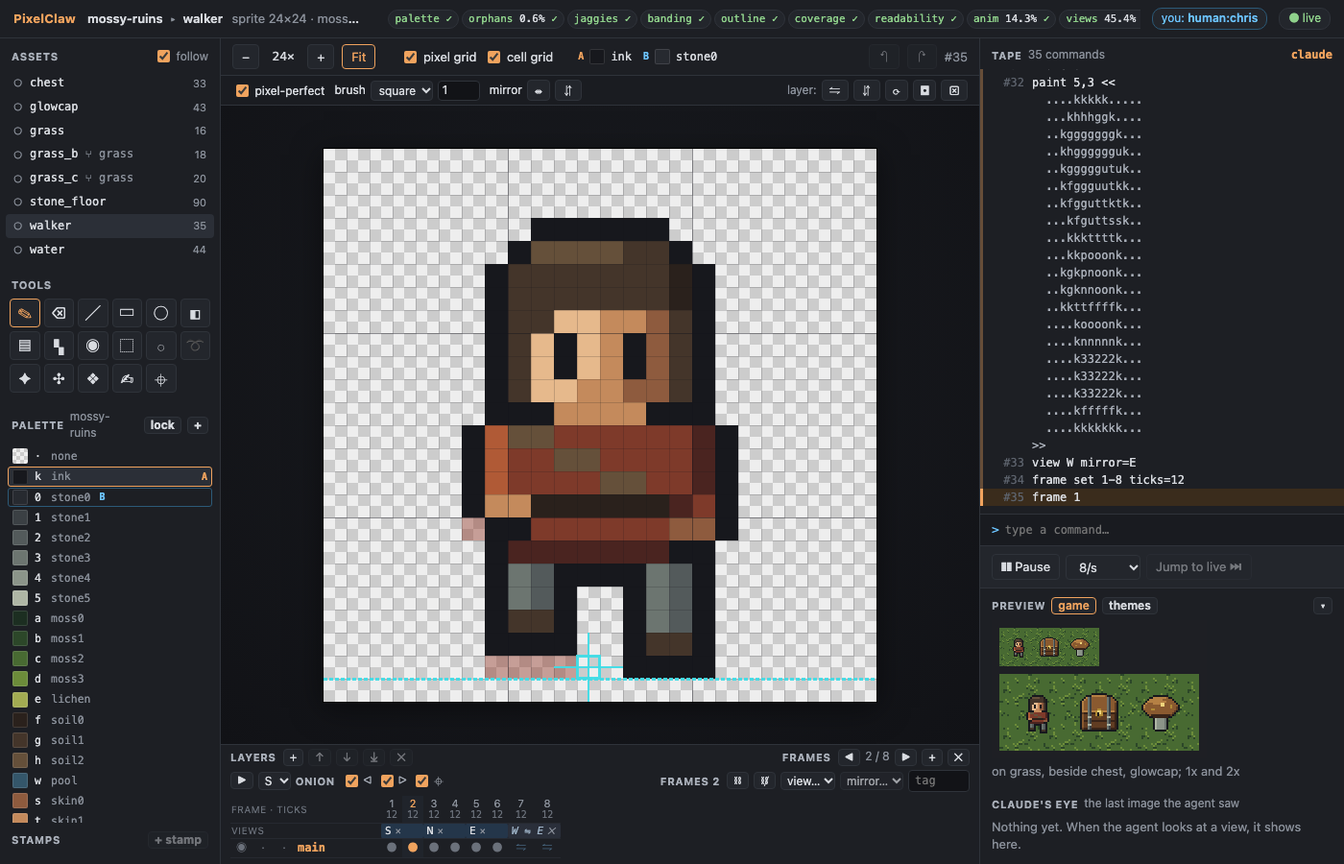
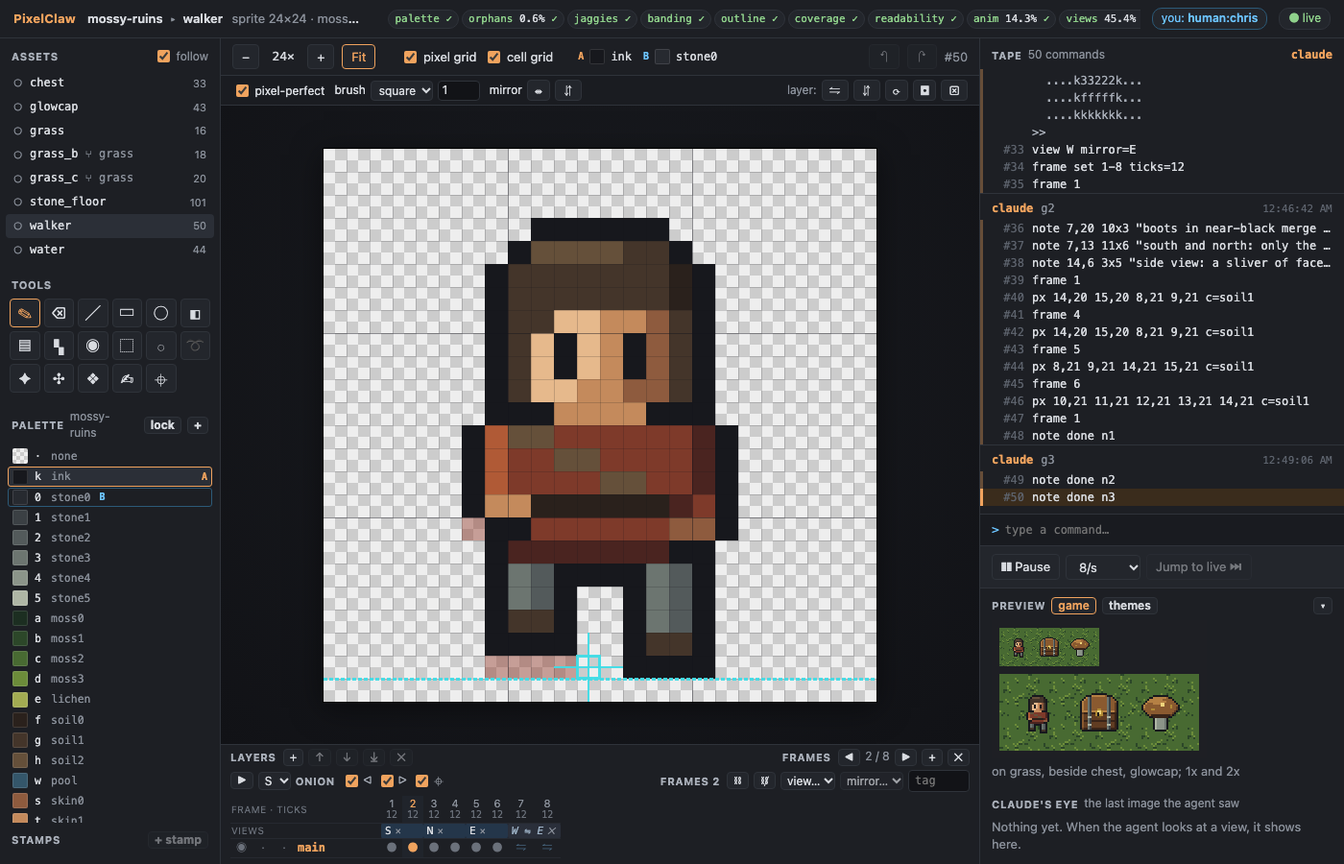
G6 docs: the demo (examples/demo-g6.md), progress, plan questions 66-80, command, check and MCP references, README, screenshots and GIFs; the CLI's view all is render, grid and tile3x3 as documented

Changed region(s): [[0.7371, 0.0933, 0.9829, 0.5911]]

diff --git a/server/src/mcp.ts b/server/src/mcp.ts
@@ -35,7 +35,8 @@ Commands (one per line, or ';' between them; '#' comments). Full reference: docs
   >>
   stroke pencil c=<colour> [pp=on|off] <x,y> <x,y>...    a freehand drag; stroke eraser <x,y>...
   layer add <name> [above=|below=<layer>] [reference] | layer <name> (draw on it) | layer set <name> hidden=|locked=|reference=on|off | layer move|merge|rename|remove
-  frame add [<n>] [copy=<m>|empty] | frame <n> (draw on it, from 1) | frame remove|move
+  frame add [<n>] [copy=<m>|link=<m>|empty] | frame <n> (draw on it, from 1) | frame remove|move | frame set <n>|<a>-<b>|all ticks=<t>
+  tag add <name> <a>-<b> [loop=cycle|pingpong] | view S|N|E|W frames=<a>-<b> | view W mirror=E (live mirror) | cel link|unlink <a>-<b> | pivot <x,y> | ground <y>
   select rect|ellipse|lasso|wand|colour|layer|all|none|invert ... [add|sub|and]; deselect   your selection clips your drawing
   clear | shift <dx,dy> [wrap] | flip h|v | rotate 90|180|270       the selection, or your whole layer
   mirror x=11.5 [y=..] live (later strokes mirrored) | mirror off | mirror x=11.5 from=left (copy once)

diff --git a/scripts/screenshots-g6.ts b/scripts/screenshots-g6.ts
@@ -12,6 +12,8 @@ const out = (n: string, ext = 'png') => join(REPO, 'docs', 'screenshots', `${n}.
 const settled = (page: Page) => page.waitForFunction(() => document.querySelector('[data-testid=waiting]')?.textContent === '');
 
 const agent = await startAgent({ copy: join(REPO, 'examples', 'mossy-ruins.pclaw') });
+// The walker's two open review notes would cover it in every picture: closed on this copy only.
+await agent.call('run', { asset: 'walker', commands: 'note done n2\nnote done n3' });
 const browser = await chromium.launch();
 try {
   const page = await browser.newPage({ viewport: { width: 1400, height: 900 }, deviceScaleFactor: 1 });

diff --git a/PROGRESS.md b/PROGRESS.md
@@ -37,7 +37,7 @@ Status of plan features touched so far. Steps refer to the build plan (§10).
 | MCP over stdio (official TS SDK v2), server instructions | §8.2 | done | `mcp.test.ts` | Serves both protocol eras (2025 `initialize` checked by hand). Instructions carry a command cheat sheet and ask the agent to share the watch link. |
 | MCP `project` | §8.2 | partial | `mcp.test.ts` | Palettes, assets, watch link; open/create another folder; add palette files. Profiles come with G9. |
 | MCP `run` | §8.2 | done | `mcp.test.ts`, `g5.test.ts` (server) | One undo group; applied lines, pixels changed, warnings, a check summary, an optional view; errors with line:col apply nothing. |
-| MCP `view` | §8.2, §2 | partial | `mcp.test.ts`, `edits.test.ts`, `g5.test.ts` (server) | `render`, `grid`, `tile3x3`, `diff`, `game`, `recolour`; `marks`, `theme`, `ground`, `with`. `anim` G6, `map` G7, `density` G9. |
+| MCP `view` | §8.2, §2 | partial | `mcp.test.ts`, `edits.test.ts`, `g5.test.ts`, `g6.test.ts` (server) | `render`, `grid`, `tile3x3`, `diff`, `game`, `recolour`, `anim`; `marks`, `theme`, `ground`, `with`. `map` G7, `density` G9. |
 | MCP `history` | §8.2 | done | `mcp.test.ts` | Range by number or last N; undone groups marked. |
 | HTTP + WebSocket on localhost, token | §1.2, §8.1 | done | `mcp.test.ts`, `watch.spec.ts` | 127.0.0.1 only, host-name check, random token for the page, `/api/state` and `/ws`. Port 7417 or the next free one. Small RFC 6455 server side, no dependency. |
 | UI shell: canvas, zoom 1–64x, pixel and cell grids | §8.3, G2 | done | `watch.spec.ts` (canvas equals the core render at two zooms, with and without the grid) | Draws core's `renderFlat`; checkerboard under transparent pixels. Wrap ghosts and onion skin come later. |
@@ -54,7 +54,7 @@ Status of plan features touched so far. Steps refer to the build plan (§10).
 | Edits from pages: WebSocket `run` as `human:<name>`, through the single writer | §1.2, §1.3, G3 | done | `edits.test.ts`, `edit.spec.ts` | The sender gets a `result`; every page gets the batch. Pages can't restart an asset; names must be `human:<name>`. |
 | Human groups `h<N>` with their own counter | §1.3, G3 | done | `authors.test.ts`, `edits.test.ts`, `edit.spec.ts` | Per tape, like `g<N>`. |
 | UI tools: pencil (pixel-perfect), eraser, line, rect, ellipse, fill, picker, rectangle select and move | §8.3, G3 | done | `edit.spec.ts` (each tool driven with the mouse; the logged lines checked; core's replay of the server's tape equals the canvas after every action) | New commands `stroke pencil\|eraser`, `select rect\|all\|none`, `deselect`, `shift`. A stroke is one line, one group. Previews are the batch applied by core. Picker and an unused selection log nothing (they don't change the document). |
-| Keyboard shortcuts in tooltips | §8.3, G3 | done | `edit.spec.ts` (B, E, L, U, Shift+U, F, G, I, Alt+click, M, V, arrows, Delete, Esc, N, Ctrl+Z, Ctrl+Shift+Z) | Aseprite-style. `[ ]` frames come with G6. |
+| Keyboard shortcuts in tooltips | §8.3, G3 | done | `edit.spec.ts` (B, E, L, U, Shift+U, F, G, I, Alt+click, M, V, arrows, Delete, Esc, N, Ctrl+Z, Ctrl+Shift+Z) | Aseprite-style. `[ ]` frames (G4), Enter plays and P is the pivot tool (G6). |
 | Selections clip drawing | §3.2 | done | `edit.test.ts`, `edit.spec.ts`, `g4.test.ts` | Every kind from G4; per author. |
 | Palette editing as tape commands | §3.1, G1 q3, G3 | done | `edit.test.ts`, `edit.spec.ts` | `palette set <entry> hex=`, `palette add [<name>] hex= [key=]` edit the document's own copy; the project palette file is untouched. |
 | Notes pinned to pixels or regions | §1.3, §8.3, G3 | done | `edit.test.ts`, `edits.test.ts`, `edit.spec.ts` | `note x,y [WxH] "text" id=nK`, `note done nK`. In the state, `asset.json`, on the canvas (labels and outlines), in a Notes panel and in `changes`. |
@@ -69,7 +69,7 @@ Status of plan features touched so far. Steps refer to the build plan (§10).
 | Demo: the person fixes three pixels and leaves a note; `changes` returns them; the agent carries on | G3 | done | `edit.spec.ts` (same scenario), `examples/demo-g3-agent.ts --simulate` (run by hand) | `examples/demo-g3.md`; screenshots in `docs/screenshots/g3-*.png`. |
 | Each author's editing context: layer, frame, selection, live symmetry, brush | §3.2, G3 notes | done | `g4.test.ts` (an agent's selection does not clip a person; layer, frame, mirror, brush per author; home layer and frame), `toolkit.spec.ts` | Authors without one draw on a home layer and frame that move with their layer and frame. The page sends `layer`/`frame`/`mirror`/`brush` lines with your next edit only when they change. |
 | Layers: add, choose, hidden, locked, reference, rename, move, merge, remove | §3.2, G4 | done | goldens `g4/layers*`, `g4.test.ts`, `toolkit.spec.ts` | Bottom to top. Reference layers are not art: views show them faded under it. A locked layer refuses drawing. |
-| Frames scaffolding: add (copy or empty), choose, remove, move | §3.2, §4.4, G4 | done | goldens `g4/frames.f1..f3`, `g4.test.ts`, `toolkit.spec.ts` | Numbered from 1. Views take `frame` (default: the agent's). Durations, tags, linked cels, onion skin: G6. |
+| Frames scaffolding: add (copy or empty), choose, remove, move | §3.2, §4.4, G4 | done | goldens `g4/frames.f1..f3`, `g4.test.ts`, `toolkit.spec.ts` | Numbered from 1. Views take `frame` (default: the agent's). Durations, tags, linked cels, onion skin: G6 (below). |
 | Selections: rect, ellipse, lasso, wand (contiguous or global), colour, layer, all, none, invert; add, sub, and; `clear` | §3.2, G4 | done | goldens `g4/select-*`, `toolkit.spec.ts` | In the page, selections are commands at once (undoable), not local as in G3. |
 | Transforms: `shift` (`wrap` within the box or canvas), `flip`, `rotate` | §3.3, G4 | done | goldens `g4/transforms`, `g4/shift-wrap`, `toolkit.spec.ts` | On the selection or the author's layer. |
 | Symmetry: `mirror … live`, `mirror … from=` | §3.3, G4 | done | goldens `g4/mirror-*`, `toolkit.spec.ts`; guides in `g4-symmetry.png` | Axes at whole or half pixels; one or two axes. |
@@ -85,7 +85,7 @@ Status of plan features touched so far. Steps refer to the build plan (§10).
 | UI: selection tools, transforms, symmetry and guides, brush, gradient and dither tools, outline and clean, stamps, timeline (layers by frames), wrap ghosts, palette lock | §8.3, G4 | done | `toolkit.spec.ts` (each control's logged lines, then core's replay equals the canvas), `edit.spec.ts` | Shortcuts: Shift+M, Q, W, Shift+G, D, S, Shift+H/V/R, X, [ ]. Screenshots `docs/screenshots/g4-*.png`. |
 | Demo: a seamless grass tile with two variants and a 24x24 chest | G4 | done | `example.test.ts` (verify, and a rebuild from the scripts) | `examples/demo-g4.md`, `examples/demo-g4-agent.ts` (run by hand), scripts in `examples/scripts/`; assets in `examples/mossy-ruins.pclaw`. |
 | Tape language 2: the palette in the `new` line | §13, G5 | done | `lang.test.ts` (language 1 tapes verify and can be drawn on; a palette file change breaks only them; a branch keeps its language; a wrong header is refused), `g5.test.ts` (core) | Language 1 tapes replay by reading the project palette. The example project was rebuilt in language 2; a language 1 copy is a test fixture (`cli/test/fixtures/lang1.pclaw`). |
-| Checks: `palette`, `orphans`, `jaggies`, `banding`, `outline`, `seam`, `coverage`, `readability`, `revert`, `repetition` | §5, G5 | done | `checks.test.ts` (a fixture per check with known answers) | Score, pass or fail against the style guide, flagged pixels by kind. `anim`, `density`, `consistency` are G6, G9, G10. See docs/checks.md. |
+| Checks: `palette`, `orphans`, `jaggies`, `banding`, `outline`, `seam`, `coverage`, `readability`, `revert`, `repetition` | §5, G5 | done | `checks.test.ts` (a fixture per check with known answers) | Score, pass or fail against the style guide, flagged pixels by kind. `anim` and `views` in G6 (below); `density`, `consistency` are G9, G10. See docs/checks.md. |
 | The seam metric, exactly | §13, G5 | done | `checks.test.ts` (solid 0; ink frame `0.9d/(0.3d+2)` = 2.6447; half-and-half `jump` = 2.3171; noise < 1) | Tiles (wrap documents). Over composed maps with G7/G8. |
 | Style-guide thresholds | §5, §7.1, G5 | done | `checks.test.ts`, `g5.test.ts` (server), `checks.spec.ts` | project.json `style` (palettes, outline, ground, drawScale, sizes, checks per kind and per asset) and `style.md`. Read again when the file changes; pages are told. |
 | MCP `check` | §8.2, G5 | done | `g5.test.ts` (server) | The table with coordinates and a marked image; without an asset, a line per asset. |
@@ -96,3 +96,18 @@ Status of plan features touched so far. Steps refer to the build plan (§10).
 | A tidier toolbar and options bar on narrow windows | G4 notes, G5 | done | screenshot `g5-narrow.png` | Narrower side panels below 1350 px, shorter labels, groups kept together. |
 | Playback never skips a command on a slow frame | G2, G5 | done | `watch.spec.ts` (every command shown in turn) | At most one command a frame up to 60/s. |
 | Demo: checks flag a test sprite's defects and the G4 art's weak spots; fixed by coordinates; a blind review round | G5 | done | `example.test.ts` (rebuild from scripts; every check passes) | `examples/demo-g5.md`, `examples/demo-g5-agent.ts`; screenshots `docs/screenshots/g5-*.png`. |
+| Frame durations in ticks; the project's tick rate | §4.4, §7.1, G6 | done | `anim.test.ts` (defaults, ranges, new frames take their source's; old documents keep their state bytes) | `frame set <n>\|<a>-<b>\|all ticks=`; `tickRate` in project.json (60). Default 10 ticks (the engine profile's `frameTicks`). |
+| Tags with `cycle` and `pingpong` loops | §3.2, §4.4, G6 | done | `anim.test.ts` (follow frames added, removed, moved) | `tag add\|set\|remove`. |
+| Linked cels | §3.2, §4.4, G6 | done | `anim.test.ts` (drawing on one draws on all; survive clone, replay, state bytes; unlink; undo) | One shared pixel array; `cel link\|unlink`, `frame add link=`. Written in the state as links, only when there are any. |
+| Directional views and live mirror links | §4.4, G6 | done | `anim.test.ts` (mirror frames added at the end, flipped; follow drawing, new source frames, ticks; drawing on a mirror refused; `mirror=off`), `g6.test.ts` (server), `anim.spec.ts` (canvas) | `view <dir> frames=`, `view W mirror=E`. The mirror is kept after every command. Export (draw-time or baked) is G9. |
+| Pivot and ground line | §4.4, §4.9, G6 | done | `anim.test.ts`, `anim.spec.ts` | `pivot x,y`, `ground y`; in the anim sheet and the watch view in cyan. |
+| `anim` view: contact sheet with onion skin, and a GIF | §2 (4), G6 | done | goldens `g6/anim-walker.png`, `g6/anim-water.png`, `g6/anim-walker.gif`, `g6/anim-water.gif`; `anim-render.test.ts` (GIF decoded back; delays at 60 ticks/s; sequences of different lengths share a loop); `g6.test.ts` (server) | GIF encoder in core (LZW, one table). The sheet: a row per sequence, ticks, the frame before tinted, pivot and ground, the change from the frame before. |
+| `anim` checks: frame diff share, loop seam, pivot and ground drift, area jumps | §4.4, §5, G6 | done | `anim-checks.test.ts` (fixtures with exact answers) | Band 8-35 % (tiles 3-35 %); drift ≤ 1 px; ground 0 px; area ≤ 15 %. Per sequence; mirrors skipped. |
+| View distinctness check (`views`) | §4.4, §5, G6 | done | `anim-checks.test.ts` | Colour difference over both silhouettes ≥ 20 % between views (first frames); E/W not compared. |
+| Checks and the run summary over every frame | §14, G6 | done | `anim-checks.test.ts` (a stray on frame 2 found and named), `g6.test.ts` (server) | Worst frame's score; flagged pixels carry their frame; marks drawn on the frame shown. |
+| Throttled checks on large canvases | §14, G6 | done | `anim-checks.test.ts` (over the budget only the focus frame) | Run summaries and the page check every frame up to 262,144 px (w × h × frames), else the frame being drawn on; the page also recomputes at most twice a second while commands play on large canvases. |
+| `pixelclaw upgrade` (language 1 tapes to language 2) | §14, G6 | done | `lang.test.ts` (same state, verified, no longer reads the palette file; a second run does nothing) | Replayed before and after; written only if the state bytes are the same; checkpoints rewritten. |
+| UI: timeline with ticks, views, tags, linked cels; playback at game speed; onion skin; pivot and ground tool | §8.3, G6 | done | `anim.spec.ts` (each control's logged line, then core's replay equals the canvas; a mirror follows the agent; playback frame times at 60 ticks/s within 120 ms; playing and onion log nothing) | Enter plays; Shift+click frame numbers chooses frames; P is the ⌖ tool. Screenshots `docs/screenshots/g6-*.png`. |
+| Review bundle with animations | §5, G6 | done | `g5.test.ts` (no author or method names) | `anim/<asset>.png` and `.gif`, every direction in the scenes, a sixth rubric question. |
+| Stone floor redrawn as a floor | §14, G6 | done | `example.test.ts`; a blind review round (`reviews/2026-10-28-g6/findings.md`) | Flagstones with `voronoi`; the repetition exception stays (its joints are its pattern). |
+| Demo: a 4-direction, 2-frame walking figure and a 4-frame water shimmer, played at game speed; the anim checks green | G6 | done | `example.test.ts` (rebuild from scripts; every check passes), `anim.spec.ts` | `examples/demo-g6.md`, `examples/demo-g6-agent.ts`; GIFs `docs/screenshots/g6-walker.gif`, `g6-water.gif`. |

diff --git a/examples/demo-g6.md b/examples/demo-g6.md
@@ -1,0 +1,163 @@
+# Demo G6: animation and sprites
+
+The agent animates: a walking figure in four directions with two frames each (south, north and
+east drawn; west a live mirror of east), and a water tile that shimmers in four frames. Each frame
+has its duration in game ticks; the anim checks (frame diff share, pivot and ground drift, loop
+seam) and the view distinctness check run over every frame, with every other check, after every
+batch. The agent looks at the `anim` contact sheet (onion skin, ticks, pivot and ground line,
+the change from frame to frame) and saves a GIF for you; you play both in the watch view at the
+game's speed. The G1 stone floor is redrawn as flagstones (G5's reviewer found it read as a wall),
+and a blind reviewer judges the new art.
+
+You need Node 22.18 or later and pnpm. Build once, from the repo:
+
+```sh
+pnpm install
+pnpm build
+```
+
+## With Claude Code
+
+Register the server and open the watch link as in [demo-g2.md](demo-g2.md) (steps 1 and 2), then
+ask, for example: *Draw a 24x24 walking figure for the mossy ruins: four directions, two walk
+frames each, west mirroring east, feet on row 22, 12 ticks a frame. Then a 24x24 water tile that
+shimmers in four frames and loops without a seam. Keep every check green, look at the anim views,
+and tell me when I can play them.*
+
+## With the stand-in agent
+
+```sh
+node examples/demo-g6-agent.ts            # --pause <ms> between batches (default 1500), --linger <s> (default 600)
+```
+
+It starts `pixelclaw serve` on `out/demo-g6.pclaw` exactly as Claude Code would, prints the watch
+link, rebuilds the G1-G5 art from its scripts, and then draws from
+[walker.pclaw](scripts/walker.pclaw), [water.pclaw](scripts/water.pclaw) and
+[stone_floor_redraw.pclaw](scripts/stone_floor_redraw.pclaw), batch by batch, printing the check
+summary after each. Then it writes a review bundle, applies the review round
+([walker_review.pclaw](scripts/walker_review.pclaw),
+[stone_floor_g6review.pclaw](scripts/stone_floor_g6review.pclaw)), and lingers so you can play
+the animations. Stop it with Ctrl-C.
+
+## 1. The walking figure
+
+The script adds the figure's colours to the document's palette (skin and cloth ramps) and saves
+them as the project palette `ruins-folk`, makes eight frames, and names the directions:
+
+```
+view S frames=1-2
+view N frames=3-4
+view E frames=5-6
+pivot 11,22
+ground 22
+```
+
+Then each frame is a paint block, and at the end:
+
+```
+view W mirror=E          # frames 7-8: east flipped, kept up to date
+frame set all ticks=12   # 5 frames a second at 60 ticks a second
+```
+
+Drawing on frame 7 is refused (`frame 7 is in view W, a live mirror of E: draw on E (frame 5), or
+view W mirror=off`); drawing on frame 5 changes frame 7 too. The run summary checks every frame:
+
+```
+checks: palette 0 ✓ · orphans 0.6% ✓ · jaggies 0 ✓ · banding 0 ✓ · outline 1 ✓ · coverage 0 ✓ · readability 1 ✓ · anim 14.3% ✓ · views 45.4% ✓
+```
+
+On the way there the checks found what was wrong by frame and pixel: a lone skin pixel for a
+hand, a hair highlight that made doubled L-corners, a 1-px notch between the legs in the side
+view, the boots' two tones as lone pixels; each was fixed in the script. The anim check holds the
+walk to 8-35 % of the figure changing per frame (it changes 14 % facing south and north, 25 %
+facing east), no sliding (pivot drift 0.2 px) and both feet's lowest row on the ground line in
+every frame; the views check finds the four directions distinct (south and north differ by 45 %).
+
+`view(mode="anim")` returns the contact sheet ([walker.anim.png](mossy-ruins.pclaw/views/walker.anim.png)),
+the numbers, and a GIF ([walker.anim.gif](mossy-ruins.pclaw/views/walker.anim.gif)):
+
+```
+walker: 8 frames at 60 ticks/s; pivot 11,22; ground 22
+  S: cycle, frames 1,2, ticks 12,12 (a loop is 24 ticks, 400 ms); changed 1→2 14%, 2→1 14%
+  N: cycle, frames 3,4, ticks 12,12 (a loop is 24 ticks, 400 ms); changed 3→4 14%, 4→3 14%
+  E: cycle, frames 5,6, ticks 12,12 (a loop is 24 ticks, 400 ms); changed 5→6 25%, 6→5 25%
+  W: mirror of E, cycle, frames 7,8, ticks 12,12 (a loop is 24 ticks, 400 ms); changed 7→8 25%, 8→7 25%
+```
+
+![The walker's contact sheet: a row per direction, the frame before tinted red under each frame, the pivot and ground line in cyan](../docs/screenshots/g6-walker-anim.png)
+
+The game view shows every direction on the grass at 1x and 2x:
+
+![The walker in four directions beside the chest and the glowcap](../docs/screenshots/g6-walker-game.png)
+
+## 2. The water
+
+[water.pclaw](scripts/water.pclaw) adds a water ramp (saved as `ruins-water`) and draws three
+layers: the body (dark troughs, one in every row, starting in a shuffled order of columns so no
+row or column is darker than the rest), crests (an arc every other row), and glints. Four frames:
+the body's cels are **linked** (`cel link 1-4 layer=main`, one shared cel), the crests move a
+quarter of the tile each frame (`shift 6,0 wrap`, so after four frames they are back where they
+started and the loop has no seam), and the glints move to other crests. 15 ticks a frame.
+
+```
+checks: palette 0 ✓ · orphans 1% ✓ · jaggies 1 ✓ · seam 0.31 ✓ · coverage 0 ✓ · repetition 2.3 ✓ · anim 16.7% ✓
+```
+
+Every pair changes 17 %, the loop seam (4→1) included. The first try used `noise` for the body:
+it looked like a maze, not water, and the repetition check found its rows; the generator above is
+what came out of that, with the seed picked from a few by the checks.
+
+![The water's contact sheet](../docs/screenshots/g6-water-anim.png)
+
+## 3. Watch it play
+
+In the watch view, choose `walker`: the timeline shows each frame's number and ticks, the views
+(`S`, `N`, `E`, and `W ⇋ E` for the mirror) and, for the water, linked cels as ◆. ▶ (or Enter)
+plays the chosen sequence at the game's speed (60 ticks a second); the onion skin shows the frame
+before (red) and after (blue) yours in its view; ⌖ shows the pivot and ground line.
+
+![The walker in the watch view](../docs/screenshots/g6-walker.png)
+![The onion skin on frame 2](../docs/screenshots/g6-onion.png)
+![Playing east at the game's speed](../docs/screenshots/g6-playing.png)
+![The water playing, its body's cels linked](../docs/screenshots/g6-water.png)
+
+Everything you change in the timeline is a command on the tape with your name: double-click a
+frame number to set its ticks (`frame set 1-2 ticks=9`), Shift+click frame numbers to choose a
+run of them and tag it (`tag add walk 1-2 loop=cycle`), make it a direction (`view E
+frames=1-2`) or add a mirror (`view W mirror=E`), link or unlink its cels (`cel link 3-4
+layer=main`); the ⌖ tool (P) sets the pivot (`pivot 11,22`) and, with Shift, the ground line.
+Playing and the onion skin only change what you see.
+
+## 4. The stone floor, as a floor
+
+G5's blind reviewer said the floor (three courses of bevelled stones) read as a wall more than a
+floor. [stone_floor_redraw.pclaw](scripts/stone_floor_redraw.pclaw) lays it again as flagstones
+seen from above with `voronoi` (seven slabs of three tones, wrapping, dark joints, no bevel), and
+a little moss in the joints:
+
+![The flagstone floor, 3x3](../docs/screenshots/g6-stone_floor-tile3x3.png)
+
+Its checks pass except `repetition`, which no jointed floor tried passed (about thirty layouts of
+slabs: the joints themselves make rows and columns darker than the rest), so the style guide's
+exception for this tile stays, with its reason changed (`style.md`: "its joints are its pattern").
+
+## 5. The blind review
+
+`review` writes a bundle with the new anim contact sheets and GIFs and every direction in the
+scenes, and a sixth question in the rubric (does the motion read, slide, float or hitch at the
+loop?). A fresh agent judged it blind
+([findings.md](mossy-ruins.pclaw/reviews/2026-10-28-g6/findings.md)): the floor now reads as
+flagstones; the walker reads at 1x in all four directions; the water loops with no hitch. Its
+defects on the new art came back as notes on the pixels; the floor's soil dash and thin moss and
+the walker's near-black boots were fixed by coordinates and their notes closed. The rest (the
+south and north walk could swing the arms, the side view's face is a sliver, the water's marks
+are all one size, the chest is as tall as the figure) are polish beyond this step's demo, left as
+open notes and listed in the findings.
+
+## In the CLI
+
+```sh
+node cli/bin/pixelclaw.js view examples/mossy-ruins.pclaw walker anim    # the sheet, the numbers, the GIF
+node cli/bin/pixelclaw.js check examples/mossy-ruins.pclaw walker water   # every frame
+node cli/bin/pixelclaw.js upgrade my-old.pclaw                            # language 1 tapes to language 2
+```

diff --git a/PLAN_QUESTIONS.md b/PLAN_QUESTIONS.md
@@ -438,3 +438,81 @@ Points where the plan was unclear or silent. Each has the reading that was follo
 
 65. **Variants' acceptance rule** (§4.1, item 53). Still not built: it compares a variant's colour
     mix with its base, which belongs with `consistency` (G10) or the family tools (G7).
+
+## G6
+
+66. **G5's "Notes for G6".** They were in G5's final report, not in the repo; §14 carries the
+    items the reader kept (upgrade, checks over every frame, throttling, the floor). *Reading:* §14
+    is the list.
+
+67. **Views and frames.** §4.4: "views S, N, E, W, each holding its own frames".
+    *Reading:* a view is a named run of the document's frames (`view S frames=1-2`), so the
+    timeline, the cels and every frame command stay one list; views never overlap and a frame
+    cannot move out of its view. Directions are S N E W and the four diagonals.
+
+68. **Live mirror links.** `view W mirror=E` "updates live". *Reading:* after every command the
+    mirror view has as many frames as its source (added or removed at its own end), each layer's
+    cel is the source's flipped left to right about the canvas (x → W−1−x), and its durations are
+    the source's. Drawing on a mirror frame is refused with the frame to draw on; `mirror=off`
+    keeps the pixels. Only views facing the other way left to right may mirror (E/W, SE/SW,
+    NE/NW). How a mirror exports (draw-time or baked) is G9's profile.
+
+69. **Linked cels.** *Reading:* as in Aseprite, one cel shown in several frames: a shared pixel
+    array, so any author drawing on any of the frames changes all. `cel link a-b` takes frame a's
+    pixels; `cel unlink` copies. `layer merge` unlinks the layer below first.
+
+70. **Durations and the tick rate.** *Reading:* every frame has ticks (default 10, the engine
+    profile's `frameTicks`); `tickRate` in project.json (already 60 since G1) sets the speed of
+    playback, the anim view's text and the GIF. A new frame takes its source's ticks; `frame set`
+    over a range sets every frame that is not a mirror's.
+
+71. **Sequences.** Playback, the anim view and the anim checks need "what loops". *Reading:*
+    every tag; every view with no tag inside it; or, with neither, all frames as one cycle. A
+    ping-pong plays there and back without repeating its ends (1 2 3 2).
+
+72. **The anim checks' numbers.** §4.4 gives the pilot's good pairs (16-19 % changed) but no
+    limits. *Reading:* frame diff share = pixels whose colour differs (opacity included) over the
+    union of both frames' silhouettes, 8-35 % for sprites (3-35 % for tiles, whose shimmer is
+    subtle); pivot drift = the spread of the silhouette's centre column over a sequence, ≤ 1 px;
+    ground drift = the lowest row against the ground line (or the first frame's lowest row), 0 px;
+    area jumps ≤ 15 %; the loop seam (last frame back to the first, cycles only) in the same band.
+    The pivot itself is an export field: drift is measured between frames, not from it.
+
+73. **The view distinctness check.** *Reading:* a separate check, `views`: each pair of views,
+    by their first frames, must differ by colour over both silhouettes by ≥ 20 %; mirror views
+    count as their source and views facing each other left to right are not compared.
+
+74. **Checks over every frame** (§14). *Reading:* every check of one image runs on every frame;
+    the result is the worst frame's, its detail starts `frame N:`, each flagged group carries its
+    frame, and views draw the marks of the frame shown. `check frame=` still checks one frame.
+
+75. **Throttled checks** (§14). *Reading:* run summaries (and the page) check every frame up to
+    262,144 pixels (w × h × frames) and otherwise only the frame being drawn on, saying so; `check`
+    always covers every frame. The page also recomputes at most twice a second while a batch plays
+    on such a canvas.
+
+76. **Onion skin and playback in the UI.** "Every new UI control replays from its logged
+    command". *Reading:* controls that change the document log commands (ticks, tags, views,
+    mirrors, links, pivot, ground); playing, the onion skin and the guides only change what the
+    person sees, like zoom and the theme in G5, and log nothing (tested). The onion skin shows the
+    frames before and after yours in its view or tag.
+
+77. **`pixelclaw upgrade`** (§14). *Reading:* only the `new` line changes (it takes the palette
+    it read from the project); the tape is replayed before and after and written only when the
+    state bytes are the same, then verified; checkpoints are written again (their prefix hashes
+    change). A tape already in language 2 is left alone.
+
+78. **The stone floor as a floor** (§14). *Reading:* redrawn on its own tape (the history stays)
+    as flagstones from above; G5's reviewer found the bevelled courses read as a wall. The
+    repetition check fails every jointed slab layout tried (about thirty): the joints make rows
+    and columns darker. The style guide's exception for this tile stays, reworded ("its joints
+    are its pattern"). G6's blind reviewer reads it as flagstones; its other findings (a lit edge
+    on the flags, more moss) are polish.
+
+79. **New palettes for the demo.** The walker and the water need skin, cloth and water colours.
+    *Reading:* as the chest did in G4, each tape adds its entries and saves them as a project
+    palette (`ruins-folk`, `ruins-water`), and the style guide lists them.
+
+80. **`view … all` in the CLI.** docs/commands.md said `all` is the first three views; the code
+    wrote every view but the diff (and so, from G6, the anim GIF too). *Reading:* the docs:
+    `all` is render, grid and tile3x3.
